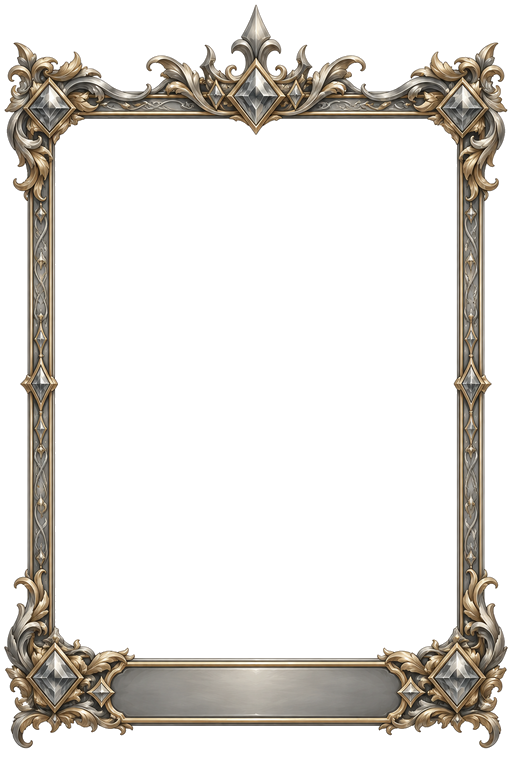
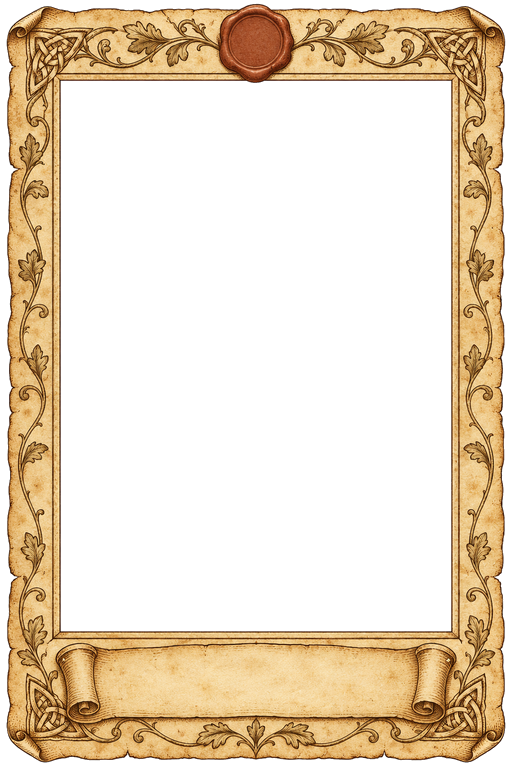
Parchment ruler card frames with a nation-colored wax seal
The frames are now aged parchment to match the map and are drawn as they
are. Only the wax seal takes the nation's color: scripts/portraits.py lifts
it out by its red color into a grey layer the card multiplies by the color.
Names are dark ink in the map's IM Fell fonts.

diff --git a/src/ui/rulerCard.ts b/src/ui/rulerCard.ts
@@ -1,5 +1,5 @@
-// The ruler card (SPEC §5.4k): a portrait in a frame tinted with the nation's color,
-// with the ruler's name on the nameplate. Hover a nation to see its ruler; a great
+// The ruler card (SPEC §5.4k): a portrait in a parchment frame whose wax seal takes
+// the nation's color, with the ruler's name inked on the nameplate. Hover a nation to see its ruler; a great
 // ruler's rise holds the card up for a few seconds.
 import type { Nation } from "../core/types";
 import { rulerName } from "../gen/rulers";
@@ -7,10 +7,8 @@ import {
   RULER_CARD_NAME_FONT,
   RULER_CARD_OPENINGS,
   RULER_CARD_PLATES,
-  RULER_CARD_SHADOW,
   RULER_CARD_SUB_FONT,
   RULER_CARD_TEXT,
-  RULER_CARD_TINT,
   RULER_CARD_WIDTH,
 } from "../render/palette";
 import { RULER_CARD_SECONDS } from "./config";
@@ -42,21 +40,19 @@ function load(path: string): Promise<HTMLImageElement> {
   return image;
 }
 
-/** The frame in the nation's color, on its own canvas: grey metal multiplied by the color, keeping the frame's see-through parts. */
-function tintedFrame(frame: HTMLImageElement, color: string): HTMLCanvasElement {
+/** The wax seal in the nation's color, on its own canvas: light grey wax multiplied by the color, keeping the seal's shape. */
+function coloredSeal(seal: HTMLImageElement, color: string): HTMLCanvasElement {
   const c = document.createElement("canvas");
   c.width = W;
   c.height = H;
   const g = c.getContext("2d")!;
-  g.drawImage(frame, 0, 0, W, H);
+  g.drawImage(seal, 0, 0, W, H);
   g.globalCompositeOperation = "multiply";
-  g.globalAlpha = RULER_CARD_TINT;
   g.fillStyle = color;
   g.fillRect(0, 0, W, H);
-  // Multiplying also colored the see-through parts, so cut back to the frame's own shape.
+  // Multiplying also colored the see-through parts, so cut back to the seal's own shape.
   g.globalCompositeOperation = "destination-in";
-  g.globalAlpha = 1;
-  g.drawImage(frame, 0, 0, W, H);
+  g.drawImage(seal, 0, 0, W, H);
   return c;
 }
 
@@ -88,9 +84,13 @@ export function createRulerCard(container: HTMLElement): RulerCard {
     const id = ++drawId;
     const { ruler } = nation;
     const kind = ruler.great === undefined ? "ordinary" : "great";
-    const [portrait, frame] = await Promise.all([
+    const [portrait, frame, seal] = await Promise.all([
       load(portraitPath(nation.race, ruler)).catch(() => load(fallbackPath(nation.race, ruler))),
       load(`frames/${kind}.png`),
+      load(`frames/${kind}-seal.png`),
+      // Canvas only uses a web font once it has loaded; otherwise it quietly falls back to Georgia.
+      document.fonts.load(RULER_CARD_NAME_FONT),
+      document.fonts.load(RULER_CARD_SUB_FONT),
     ]);
     if (id !== drawId) return;
 
@@ -107,7 +107,8 @@ export function createRulerCard(container: HTMLElement): RulerCard {
     g.clip();
     g.drawImage(portrait, ox, oy, ow, (ow * portrait.height) / portrait.width);
     g.restore();
-    g.drawImage(tintedFrame(frame, nation.color), 0, 0);
+    g.drawImage(frame, 0, 0, W, H);
+    g.drawImage(coloredSeal(seal, nation.color), 0, 0);
 
     const [pl, pt, pr, pb] = RULER_CARD_PLATES[kind];
     const cx = ((pl + pr) / 2) * W;
@@ -116,11 +117,8 @@ export function createRulerCard(container: HTMLElement): RulerCard {
     g.textAlign = "center";
     g.textBaseline = "middle";
     g.fillStyle = RULER_CARD_TEXT;
-    g.shadowColor = RULER_CARD_SHADOW;
-    g.shadowBlur = 4;
     fitText(g, rulerName(ruler, nation.race), cx, plateMid - 13, plateWidth, RULER_CARD_NAME_FONT);
     fitText(g, `${ruler.dynasty} · ${nation.name}`, cx, plateMid + 15, plateWidth, RULER_CARD_SUB_FONT);
-    g.shadowBlur = 0;
     container.hidden = !enabled;
   }
 

diff --git a/src/render/palette.ts b/src/render/palette.ts
@@ -422,17 +422,15 @@ export const FOCUS_GOAL_RADIUS = 4;
 /** Mark on land a side occupies, in the occupier's color, with a dark edge. */
 export const FOCUS_HELD_SIZE = 5;
 export const FOCUS_EDGE = "rgba(30, 24, 18, 0.85)";
-// --- Ruler card (SPEC §5.4k): portrait + frame tinted in the nation's color ---
+// --- Ruler card (SPEC §5.4k): portrait in a parchment frame, its wax seal in the nation's color ---
 /** Card width on the page, in CSS pixels. It is drawn at 512 × 768 and shrunk, so it stays sharp. */
 export const RULER_CARD_WIDTH = 180;
-/** How strongly the grey metal frame takes the nation's color, 0..1. */
-export const RULER_CARD_TINT = 0.6;
 /** Where the portrait shows through each frame, as shares of the frame: [left, top, right, bottom]. Measured by scripts/portraits.py. */
-export const RULER_CARD_OPENINGS = { ordinary: [0.074, 0.083, 0.926, 0.87], great: [0.107, 0.155, 0.893, 0.857] } as const;
-/** Each frame's nameplate, in the same shares. */
-export const RULER_CARD_PLATES = { ordinary: [0.1, 0.876, 0.9, 0.954], great: [0.215, 0.876, 0.786, 0.944] } as const;
-/** Ruler's title and name, then dynasty and realm. Sizes are in the 512-pixel-wide drawing. */
-export const RULER_CARD_NAME_FONT = "bold 26px Georgia, serif";
-export const RULER_CARD_SUB_FONT = "italic 19px Georgia, serif";
-export const RULER_CARD_TEXT = "#fbf6e9";
-export const RULER_CARD_SHADOW = "rgba(0, 0, 0, 0.85)";
+export const RULER_CARD_OPENINGS = { ordinary: [0.076, 0.092, 0.926, 0.887], great: [0.119, 0.105, 0.881, 0.822] } as const;
+/** Each frame's nameplate (the great frame's is the scroll between its rolls), in the same shares. */
+export const RULER_CARD_PLATES = { ordinary: [0.06, 0.893, 0.94, 0.96], great: [0.22, 0.845, 0.8, 0.925] } as const;
+/** Ruler's title and name, then dynasty and realm, in the map's old-print fonts. Sizes are in the 512-pixel-wide drawing. */
+export const RULER_CARD_NAME_FONT = "28px 'IM Fell English SC', Georgia, serif";
+export const RULER_CARD_SUB_FONT = "italic 20px 'IM Fell English', Georgia, serif";
+/** Ink on the nameplate. */
+export const RULER_CARD_TEXT = "#1d150d";

diff --git a/scripts/portraits.py b/scripts/portraits.py
@@ -1,5 +1,6 @@
 # Turns the big draft images in assets/ into the small files the game loads from public/.
-# Portraits become 512 x 768 WebP; frames lose their white background and become PNG.
+# Portraits become 512 x 768 WebP; frames lose their white background and become PNG,
+# and each frame's red wax seal is lifted out as a grey layer the game colors per nation.
 #
 # Needs Pillow. One way, from the project folder:
 #   python3 -m venv .venv && .venv/bin/pip install pillow==10.4.0
@@ -7,7 +8,7 @@
 import sys
 from pathlib import Path
 
-from PIL import Image, ImageChops, ImageDraw
+from PIL import Image, ImageChops, ImageDraw, ImageFilter, ImageOps
 
 ROOT = Path(__file__).resolve().parent.parent
 DRAFTS = ROOT / "assets"
@@ -26,7 +27,13 @@ ORDINARY = {
     "orc-m": "octo-leaders/orc.png",
     "dwarf-m": "octo-leaders/dwarf.png",
 }
-FRAMES = {"ordinary": "frame-drafts/frame-ordinary.png", "great": "frame-drafts/frame-great-v2.png"}
+FRAMES = {"ordinary": "frame-drafts/frame-parchment-ordinary.png", "great": "frame-drafts/frame-parchment.png"}
+# The wax seal is the round red blob at the top center. Wax is redder (hue about 12 of 255),
+# brighter and more saturated than the parchment's ink lines.
+SEAL_TOP_SHARE = 0.2
+SEAL_MAX_HUE = 14
+SEAL_MIN_SATURATION = 150
+SEAL_MIN_BRIGHTNESS = 110
 
 
 def save_portrait(source: Path, name: str) -> None:
@@ -53,6 +60,38 @@ def cut_out_frame(source: Path, name: str) -> None:
     ImageDraw.floodfill(hole, (w // 2, h // 2), 128)
     box = hole.point(lambda v: 255 if v == 128 else 0).getbbox()
     print(f"{name} opening (x0, y0, x1, y1 as shares of the frame): " + ", ".join(f"{v / s:.3f}" for v, s in zip(box, (w, h, w, h))))
+    cut_out_seal(frame, name)
+
+
+def cut_out_seal(frame: Image.Image, name: str) -> None:
+    """Saves the wax seal alone, in light grey, so multiplying by a nation's color gives wax of that color."""
+    w, h = SIZE
+    hue, saturation, value = frame.convert("RGB").convert("HSV").split()
+    tests = [hue.point(lambda v: 255 if v <= SEAL_MAX_HUE else 0),
+             saturation.point(lambda v: 255 if v >= SEAL_MIN_SATURATION else 0),
+             value.point(lambda v: 255 if v >= SEAL_MIN_BRIGHTNESS else 0)]
+    red = tests[0]
+    for test in tests[1:]:
+        red = ImageChops.multiply(red, test)
+    # Shrinking then growing again wipes out thin lines and specks but keeps a solid blob.
+    red = red.filter(ImageFilter.MinFilter(7)).filter(ImageFilter.MaxFilter(7))
+    # Keep only the blob that the frame's center line runs into first, near the top.
+    start = next((y for y in range(int(h * SEAL_TOP_SHARE)) if red.getpixel((w // 2, y)) == 255), None)
+    if start is None:
+        print(f"{name}: no wax seal found")
+        return
+    ImageDraw.floodfill(red, (w // 2, start), 128)
+    mask = red.point(lambda v: 255 if v == 128 else 0)
+    # Fill the dark folds inside the seal, then soften the edge.
+    mask = mask.filter(ImageFilter.MaxFilter(9)).filter(ImageFilter.MinFilter(9))
+    box = mask.getbbox()
+    # Brighten the wax so the darkest folds stay dark but the color reads clearly.
+    grey = ImageOps.autocontrast(frame.convert("L"), cutoff=1).point(lambda v: 90 + v * 165 // 255)
+    # Paste onto a clear sheet, so the hidden pixels are empty and the file stays small.
+    seal = Image.new("RGBA", SIZE, (0, 0, 0, 0))
+    seal.paste(grey.convert("RGBA"), mask=mask.filter(ImageFilter.GaussianBlur(1)))
+    seal.save(OUT / "frames" / f"{name}-seal.png", optimize=True)
+    print(f"{name} seal at " + ", ".join(f"{v / s:.3f}" for v, s in zip(box, (w, h, w, h))))
 
 
 def main() -> None:

diff --git a/docs/art/portrait-prompts.md b/docs/art/portrait-prompts.md
@@ -129,22 +129,22 @@ Drafts are in `assets/portrait-drafts/octo-great/`, named `race-gender-type` (fo
 
 ## Card frames
 
-Paste the base prompt plus one design. The frame stays grey so the game can tint it with each nation's color.
+The game's frames are aged parchment, to match the map. They aren't tinted: only the red wax seal at the top center is recolored per nation, so keep it red, round and plain. Paste the base prompt plus one design. (The first frames were grey metal, tinted whole; they're retired.)
 
 ```text
-A single ornamental portrait card frame for a fantasy grand-strategy game, seen perfectly flat and front-on with no perspective, perfectly symmetrical left to right. Tall rectangular shape in a 2:3 ratio, filling the image with a small even margin. The large central opening is completely empty and pure white. Everything outside the frame is pure white too. No person, no text, no letters, no logo, no watermark, no shadow on the white areas. At the bottom of the frame sits a wide empty nameplate with a smooth blank surface. The metal is neutral desaturated silver-grey with soft pale gold highlights, so it can be tinted to any color later. Rendered in a glossy semi-realistic 2.5D fantasy illustration style, ultra-polished, crisp clean edges, soft painterly metal shading.
+A single portrait card frame for a fantasy strategy game drawn in the style of an old printed map, seen perfectly flat and front-on with no perspective, perfectly symmetrical left to right. Tall rectangular shape in a 2:3 ratio, filling the image with a small even margin. The large central opening, about 85 percent of the frame width, is completely empty and pure white, with a clean straight inner edge on all four sides; nothing pokes inward into the opening. Everything outside the frame is pure white too. No person, no text, no letters, no numbers, no logo, no watermark, no shadow on the white areas. Crisp clean edges.
 ```
 
 **Ordinary rulers**
 
 ```text
-Design: slim and elegant, a thin double-line border of brushed metal with simple corner brackets and a small plain crest at the top center.
+Material: aged parchment. A slim, plain border band of warm cream-tan parchment with slightly rough edges, outlined by a thin double sepia-brown ink rule like an antique map. Very little decoration: only a small simple ink knot at each of the four corners, no vines and no leaves. A round blank red-brown wax seal, plain and unmarked, sits at the top center over the border. At the bottom, a plain wide parchment band as an empty nameplate, flat and smooth, edged by a single ink line. Muted colors only: cream, tan, sepia ink. Engraved, hand-drawn, ink illustration style.
 ```
 
 **Great rulers**
 
 ```text
-Design: elegant and ornate but slim. The central opening is very large, about 85 percent of the frame width, with a clean straight inner edge on all four sides. Nothing pokes inward into the opening: no gems, scrolls, points or crest may cross the inner edge. The left and right sides are thin bands of fine engraved filigree. All the rich decoration sits at the four corners and along the outer edge: jeweled corner pieces with blank grey gems and flowing scrollwork that grows outward, and a tall crown-shaped crest at the top center that rises upward above the border.
+At the bottom of the frame sits a wide empty nameplate with a smooth blank surface. Material: aged parchment and vellum. The border is a band of warm cream-tan parchment with slightly torn, curled edges at the corners, outlined in thin sepia-brown ink lines like a medieval manuscript or an antique map cartouche. Fine hand-inked decoration: a double ink rule, small knotwork and leafy scrolls at the four corners, faint foxing stains, and a rolled scroll-shaped nameplate at the bottom. A small blank wax seal at the top center. Muted colors only: cream, tan, sepia ink, soft brown. Engraved, hand-drawn, woodcut-and-ink illustration style.
 ```
 
 ## Tips

diff --git a/CLAUDE.md b/CLAUDE.md
@@ -254,4 +254,4 @@ Work one at a time. At the end of each: run tests, take a screenshot, give me my
 | 2026-11-02 | Settled start (M16b), decided with the user: history opens on 5–10 old kingdoms (default 10, picked in the toolbar, `?start=`) sharing all the land, one per race at least; old realms (core land, towns and cities, settled people, low unrest); mixed peoples by homeland, so subject peoples exist from year 0; the old open start kept as an option. `createWorld` (`sim/start.ts`) wraps `generateWorld`, so the open start and the golden history are untouched |
 | 2026-11-02 | Settled start as built: race terrain costs made Dwarf realms sweep the mountains and left some kingdoms 1–76 cells, so borders grow by plain travel cost, one cell per kingdom per round; homelands chosen farthest-first; capitals spaced (`KINGDOM_SPACING`), off small islands (`KINGDOM_MIN_LAND`) and toward open country (`KINGDOM_ROOM`). Measured (5 seeds × 1,000 years): first breakup median year 238, 8 of 50 never break; 3–6 of 10 kingdoms alive at 1000; wars 87–129/century (open start 44–86); biggest race 46%, no takeovers |
 | 2026-11-01 | Ruler portraits: half-body crop, shortlist of painted and Octopath-style pixel art (user's choice; bold ink dropped). Reusable prompts for other image services are in `docs/art/portrait-prompts.md` |
-| 2026-11-04 | Ruler card (SPEC §5.4k, key P): hover a nation to see its ruler; a great ruler's rise holds the card up 5 s. Placeholder set = 48 Octopath-style portraits (5 races × 2 genders × ordinary + 5 great types; Orcs and Dwarves men only), grey frames tinted by nation color. Drafts in `assets/` stay out of git (public repo, ~100 MB); `scripts/portraits.py` makes the small WebP files in `public/` |
+| 2026-11-04 | Ruler card (SPEC §5.4k, key P): hover a nation to see its ruler; a great ruler's rise holds the card up 5 s. Placeholder set = 48 Octopath-style portraits (5 races × 2 genders × ordinary + 5 great types; Orcs and Dwarves men only), parchment frames to match the map, untinted, with only the wax seal in the nation's color and the name in black ink (user's choice over grey metal and forged steel). Drafts in `assets/` stay out of git (public repo, ~100 MB); `scripts/portraits.py` makes the small WebP files in `public/` |

diff --git a/docs/SPEC.md b/docs/SPEC.md
@@ -809,8 +809,8 @@ The side panel (Wars, Past wars, Log), following a war, its map marks and the wa
 A portrait card floats at the map's top right (`src/ui/rulerCard.ts`), toggled with key P. Hovering over a nation shows its ruler; unowned land hides it. When a great ruler rises, the card shows them and stays up for `RULER_CARD_SECONDS`, ignoring hover meanwhile.
 
 - **Portrait:** `public/portraits/{race}-{m|f}-{ordinary|conqueror|lawgiver|builder|prophet|schemer}.webp`, 48 files. Orcs and Dwarves have no women, so they always use `m`. `portraitPath()` in `src/ui/portraits.ts` picks the file, and a test checks every one exists.
-- **Frame:** `public/frames/ordinary.png` or `great.png`. They're grey, multiplied by the nation's color (`RULER_CARD_TINT`). The portrait is clipped to the frame's opening (`RULER_CARD_OPENINGS`). Name, then dynasty and nation, go on the nameplate (`RULER_CARD_PLATES`).
-- **Making the files:** `scripts/portraits.py` turns the drafts in `assets/` (not committed) into these files and prints the opening boxes. Prompts are in `docs/art/portrait-prompts.md`.
+- **Frame:** `public/frames/ordinary.png` or `great.png`, aged parchment to match the map, drawn as they are. Only the wax seal at the top takes the nation's color: `{kind}-seal.png` is the seal alone in light grey, multiplied by the color. Text is dark ink in the map's IM Fell fonts. The portrait is clipped to the frame's opening (`RULER_CARD_OPENINGS`). Name, then dynasty and nation, go on the nameplate (`RULER_CARD_PLATES`).
+- **Making the files:** `scripts/portraits.py` turns the drafts in `assets/` (not committed) into these files (lifting each seal out by its red color) and prints the opening boxes. Prompts are in `docs/art/portrait-prompts.md`.
 - The card is a page element, not drawn on the map, so it doesn't appear in recorded videos.
 
 ### 5.5 Performance budget

diff --git a/docs/GLOSSARY.md b/docs/GLOSSARY.md
@@ -147,6 +147,6 @@ New concepts as we meet them, with where they show up in our code.
 | **Farthest-first selection** | Picking each new point as far as possible from the ones already picked, so they spread evenly. | `kingdomHomes()` in `src/gen/kingdoms.ts` |
 | **Discriminated union** | A type that is one of several shapes, told apart by a field like `kind`. TypeScript then knows `kingdoms` exists only when `kind` is `"settled"`. | `StartOptions` in `src/core/types.ts` |
 | **`public/` folder** | Files Vite copies as they are into the finished site, so the page can load them by path (e.g. `portraits/orc-m-ordinary.webp`). Good for images; code goes in `src/`. | `public/portraits/`, `public/frames/` |
-| **Composite operation (blend mode)** | How Canvas mixes new paint with what's already there. `multiply` darkens like tinted glass; `destination-in` keeps only the old pixels where the new shape is. | `tintedFrame()` in `src/ui/rulerCard.ts` |
 | **Promise / `async` / `await`** | A promise is a value that arrives later, like an image still downloading. `await` pauses a function until it arrives, without freezing the page. | `load()` and `draw()` in `src/ui/rulerCard.ts` |
 | **`import.meta.glob`** | A Vite feature that lists the files matching a pattern, so a test can check they exist without reading the disk itself. | `tests/portraits.test.ts` |
+| **Web font loading** | A font file from the web arrives a moment after the page. Canvas won't wait for it, so `document.fonts.load()` is awaited first, or the text would quietly use a fallback font. | `draw()` in `src/ui/rulerCard.ts` |

diff --git a/docs/PARAMS.md b/docs/PARAMS.md
@@ -689,11 +689,10 @@ Animated layer (key E). Visual only: changing these never changes history. Times
 | Parameter | Default | Range | What it controls | Up ↑ | Down ↓ |
 |---|---|---|---|---|---|
 | `RULER_CARD_WIDTH` | 180 | 120–300 | Card width on screen (pixels) | Big, covers more map | Small, harder to see the face |
-| `RULER_CARD_TINT` | 0.6 | 0–1 | How strongly the frame takes the nation's color | Bold nation color | Plain grey metal (0) |
 | `RULER_CARD_OPENINGS` | see file | — | Where the portrait shows inside each frame | — | — |
 | `RULER_CARD_PLATES` | see file | — | Where the name is written on each frame's nameplate | — | — |
-| `RULER_CARD_NAME_FONT` / `RULER_CARD_SUB_FONT` | bold 26px / italic 19px Georgia | — | Name and dynasty fonts (shrunk to fit if too long) | — | — |
-| `RULER_CARD_TEXT` / `RULER_CARD_SHADOW` | #fbf6e9 / black 85% | — | Text color and the shadow that keeps it readable | — | — |
+| `RULER_CARD_NAME_FONT` / `RULER_CARD_SUB_FONT` | 28px IM Fell English SC / italic 20px IM Fell English | — | Name and dynasty fonts (shrunk to fit if too long) | — | — |
+| `RULER_CARD_TEXT` | #1d150d | — | Ink color on the nameplate | — | — |
 
 ---
 
